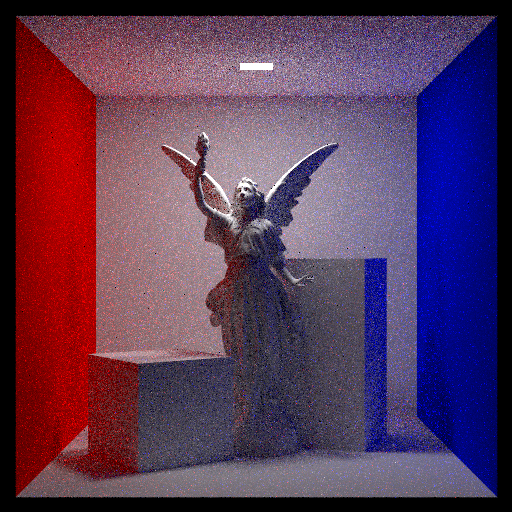
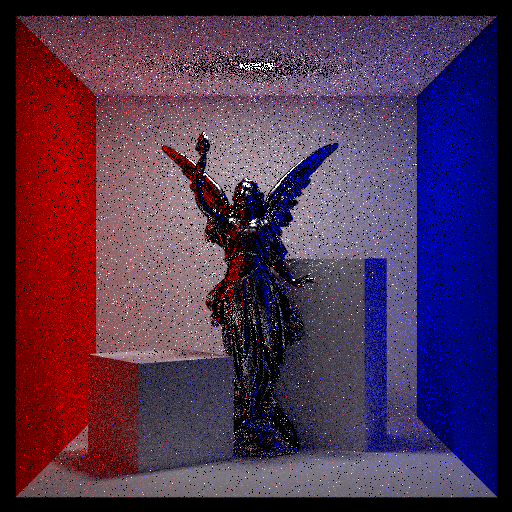
pre pathintegrator change

diff --git a/shading/SurfaceScatterEvent.h b/shading/SurfaceScatterEvent.h
@@ -2,7 +2,7 @@
 Structure that provides access to necessary information needed for shading.
 */
 
-//TO DO: Rename to SurfaceEvent.
+//TO DO: Rename to SurfaceEvent?
 #pragma once
 #include <maths/maths.h>
 #include <core/Ray.h>
@@ -15,6 +15,7 @@ struct SurfaceScatterEvent {
 	Vec3 wo, wi, woL, wiL;
 	Real pdf, eta = 1.;
 	RayHit *hit;
+	bool isect;
 	const Scene *scene;
 
 	inline Vec3 ToLocal(const Vec3 &_v) const {
@@ -30,3 +31,39 @@ struct SurfaceScatterEvent {
 		wiL = ToLocal(wi);
 	}
 };
+
+
+//----	Surface-Space Utility Functions	----
+inline Real CosTheta(const Vec3 &_w) { return _w.y; }
+
+inline Real Cos2Theta(const Vec3 &_w) { return _w.y * _w.y; }
+
+inline Real Sin2Theta(const Vec3 &_w) { return std::max((Real)0, 1 - _w.y * _w.y); }
+
+inline Real SinTheta(const Vec3 &_w) { return std::sqrt(Sin2Theta(_w)); }
+
+inline Real CosPhi(const Vec3 &_w) {
+	const Real sinTheta = SinTheta(_w);
+	return (sinTheta == 0) ? 0 : maths::Clamp(_w.x / sinTheta, (Real)-1, (Real)1);
+}
+
+inline Real Cos2Phi(const Vec3 &_w) {
+	return CosPhi(_w) * CosPhi(_w);
+}
+
+inline Real SinPhi(const Vec3 &_w) {
+	const Real sinTheta = SinTheta(_w);
+	return (sinTheta == 0) ? 0 : maths::Clamp(_w.y / sinTheta, (Real)-1, (Real)1);
+}
+
+inline Real Sin2Phi(const Vec3 &_w) {
+	return SinPhi(_w) * SinPhi(_w);
+}
+
+inline Real Tan2Theta(const Vec3 &_w) {
+	return Sin2Theta(_w) / Cos2Theta(_w);
+}
+
+inline Real TanTheta(const Vec3 &_w) {
+	return SinTheta(_w) / CosTheta(_w);
+}

diff --git a/shading/Microfacet.h b/shading/Microfacet.h
@@ -4,24 +4,25 @@
 
 class MicrofacetBRDF : public BxDF {
 	public:
-		MicrofacetBRDF(Texture *_albedo, MicrofacetDistribution *_distribution, Fresnel *_fresnel) {
+		Real etaT;
+		TextureAdapter albedo;
+		MicrofacetDistribution *distribution;
+		Fresnel *fresnel;
+
+
+		MicrofacetBRDF(Texture *_albedo, MicrofacetDistribution *_distribution, Fresnel *_fresnel) : BxDF((BxDFType)(BxDF_REFLECTION | BxDF_GLOSSY)) {
 			albedo.SetTexture(_albedo);
 			distribution = _distribution;
 			fresnel = _fresnel;
 		}
 
 		Spectrum f(const SurfaceScatterEvent &_event) const override {
-			
-			const Vec3 wh = (_event.wi + _event.wo).Normalised();
-
+			const Real cosThetaO = std::abs(_event.woL.y), cosThetaI = std::abs(_event.wiL.y);
+			const Vec3 wh = (_event.wiL + _event.woL).Normalised();
+			if (cosThetaI == 0 || cosThetaO == 0) return Spectrum(0.);
+			if (wh.x == 0 && wh.y == 0 && wh.z == 0) return Spectrum(0.);
+			const Spectrum fr = fresnel->Evaluate(maths::Dot(_event.wiL, wh), etaT);
+			return albedo.GetUV(_event.hit->uvCoords) * distribution->D(wh) * distribution->G(_event.woL, _event.wiL) * fr /
+				(4 * cosThetaI * cosThetaO);
 		}
-
-		Spectrum Sample_f(SurfaceScatterEvent &_event, const Vec2 &_u, Real &_pdf) const override {
-			
-		}
-
-	protected:
-		TextureAdapter albedo;
-		MicrofacetDistribution *distribution;
-		Fresnel *fresnel;
 };

diff --git a/shading/BxDF.h b/shading/BxDF.h
@@ -41,41 +41,6 @@ class BxDF {
 		
 };
 
-//----	Utility functions:	---- TO DO - NEEDS OPTIMISING AND MOVING
-inline Real CosTheta(const Vec3 &_w) { return _w.y; }
-
-inline Real Cos2Theta(const Vec3 &_w) { return _w.y * _w.y; }
-
-inline Real Sin2Theta(const Vec3 &_w) { return std::max((Real)0, 1 - _w.y * _w.y); }
-
-inline Real SinTheta(const Vec3 &_w) { return std::sqrt(Sin2Theta(_w)); }
-
-inline Real CosPhi(const Vec3 &_w) {
-	const Real sinTheta = SinTheta(_w);
-	return (sinTheta == 0) ? 0 : maths::Clamp(_w.x / sinTheta, (Real)-1, (Real)1);
-}
-
-inline Real Cos2Phi(const Vec3 &_w) {
-	return CosPhi(_w) * CosPhi(_w);
-}
-
-inline Real SinPhi(const Vec3 &_w) {
-	const Real sinTheta = SinTheta(_w);
-	return (sinTheta == 0) ? 0 : maths::Clamp(_w.y / sinTheta, (Real)-1, (Real)1);
-}
-
-inline Real Sin2Phi(const Vec3 &_w) {
-	return SinPhi(_w) * SinPhi(_w);
-}
-
-inline Real Tan2Theta(const Vec3 &_w) {
-	return Sin2Theta(_w) / Cos2Theta(_w);
-}
-
-inline Real TanTheta(const Vec3 &_w) {
-	return SinTheta(_w) / CosTheta(_w);
-}
-
 class ScaledBxDF : public BxDF {
 	public:
 		BxDF* bxdf;

diff --git a/integrators/PathIntegrator.h b/integrators/PathIntegrator.h
@@ -17,8 +17,9 @@ class PathIntegrator : public Integrator {
 			RayHit hit;
 			SurfaceScatterEvent event;	//Reusable object to reduce instantiation and destruction.
 			event.scene = &_scene;
+			event.isect = false;
 			for (unsigned bounces = 0; bounces < maxBounces; ++bounces) {
-				if (_scene.Intersect(r, hit)) {
+				if (event.isect || _scene.Intersect(r, hit)) {
 					event.hit = &hit;
 					event.wo = -r.d;
 					event.pdf = 1;
@@ -32,7 +33,6 @@ class PathIntegrator : public Integrator {
 						L += beta * SampleOneLight(event, _scene);
 						const Spectrum f = hit.object->bxdf->Sample_f(event, sampler->Get2D(), event.pdf);
 						if ((event.pdf == 0) || f.IsBlack()) break;
-						//beta *= f * std::abs(maths::Dot(hit.normalS, event.wi)) / event.pdf;
 						beta *= f * std::abs(event.wiL.y) / event.pdf;
 						r.o = hit.point + hit.normalG * .00001;
 						r.d = event.wi;

diff --git a/integrators/Integrator.h b/integrators/Integrator.h
@@ -23,7 +23,6 @@ class Integrator {
 			Real scatteringPDF, lightPDF;
 			Spectrum Li = _light.Sample_Li(_event, sampler, lightPDF);
 			if (lightPDF > 0 && !Li.IsBlack()) {
-				//const Spectrum f = _event.hit->object->bxdf->f(_event) * std::abs(maths::Dot(_event.hit->normalS, _event.wi));
 				const Spectrum f = _event.hit->object->bxdf->f(_event) * std::abs(_event.wiL.y);
 				scatteringPDF = _event.hit->object->bxdf->CosineHemispherePdf(_event.woL, _event.wiL);
 				if (!f.IsBlack()) {
@@ -32,7 +31,6 @@ class Integrator {
 				}
 			}
 			Spectrum f = _event.hit->object->bxdf->Sample_f(_event, sampler->Get2D(), scatteringPDF);
-			//f *= std::abs(maths::Dot(_event.wi, _event.hit->normalS));
 			f *= std::abs(_event.wiL.y);
 			if (scatteringPDF > 0 && !f.IsBlack()) {
 				Real weight = 1;

diff --git a/Lambda/main.cpp b/Lambda/main.cpp
@@ -6,7 +6,7 @@
 #include <shading/OrenNayar.h>
 #include <shading/Lambertian.h>
 #include <shading/Specular.h>
-#include <shading/Specular.h>
+#include <shading/Microfacet.h>
 #include <integrators/DirectLightingIntegrator.h>
 #include <integrators/PathIntegrator.h>
 #include <sampling/HaltonSampler.h>
@@ -44,7 +44,9 @@ int main() {
 	lucy.LoadFromImport(scene.device, ai3);
 	lucy.smoothNormals = true;
 	Texture white(1, 1, Colour(1, 1, 1));
-	OrenNayarBRDF mat2(&white, 1);
+	BeckmannDistribution dist(0.01, .01);
+	FresnelDielectric fres(2);
+	MicrofacetBRDF mat2(&white, &dist, &fres);
 	lucy.bxdf = &mat2;
 	scene.AddObject(lucy);
 

diff --git a/core/Scene.h b/core/Scene.h
@@ -65,14 +65,14 @@ class Scene {
 			const Vec3 diff = _p2 - _p1;
 			const Real mag = diff.Magnitude();
 			const Vec3 dir = diff / mag;
-			RTCRay eRay = Ray(_p1 + dir * .00001, dir).ToRTCRay();
+			RTCRay eRay = Ray(_p1 + dir * .0001, dir).ToRTCRay();
 			RTCRayHit rayHit;
 			rayHit.ray = eRay;
 			RTCIntersectContext context;
 			rtcInitIntersectContext(&context);
 			context.flags = RTC_INTERSECT_CONTEXT_FLAG_INCOHERENT;
 			rtcIntersect1(scene, &context, &rayHit);
-			return rayHit.ray.tfar > (mag - 0.00002);
+			return rayHit.ray.tfar > (mag - 0.0002);
 		}
 
 		bool RayEscapes(const Ray &_ray) const {

diff --git a/lighting/MeshLight.h b/lighting/MeshLight.h
@@ -41,7 +41,7 @@ class MeshLight : public Light {
 
 		Real PDF_Li(const SurfaceScatterEvent &_event) const override {
 			RayHit hit;
-			if (!_event.scene->Intersect(Ray(_event.hit->point + _event.hit->normalG * .00001, _event.wi), hit)) return 0;
+			if (!_event.scene->Intersect(Ray(_event.hit->point + _event.hit->normalG * .0001, _event.wi), hit)) return 0;
 			if (hit.object->light != this) return 0;
 			Real triArea;
 			Vec3 normal;

diff --git a/shading/MicrofacetDistribution.h b/shading/MicrofacetDistribution.h
@@ -9,6 +9,8 @@ class MicrofacetDistribution {
 		virtual Real Lambda(const Vec3 &_w) const = 0;
 
 		Real G1(const Vec3 &_w) const { return 1 / (1 + Lambda(_w)); }
+
+		Real G(const Vec3 &_wo, const Vec3 &_wi) const { return 1 / (1 + Lambda(_wo) + Lambda(_wi)); }
 };
 
 class BeckmannDistribution : public MicrofacetDistribution {
